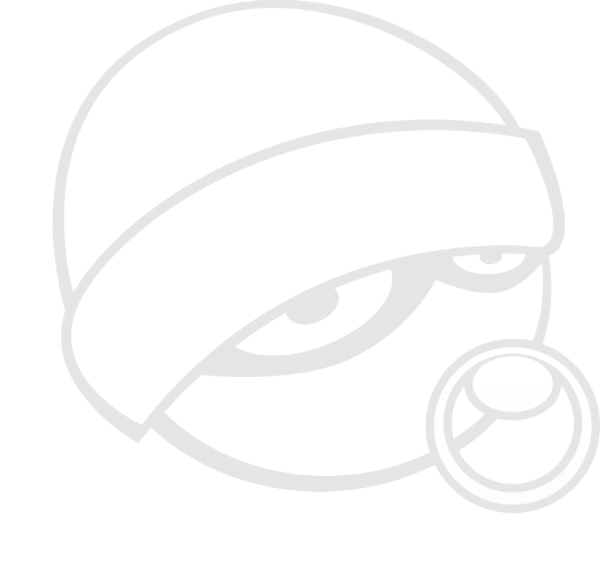
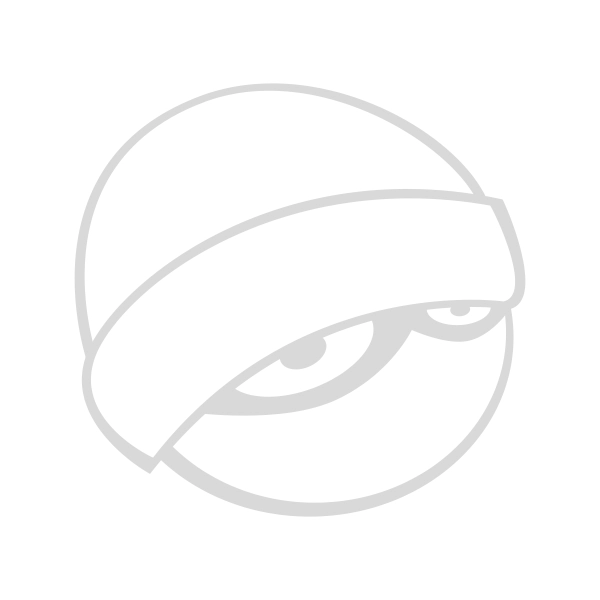
background image tweak, removed tor link

diff --git a/_layouts/default.html b/_layouts/default.html
@@ -26,7 +26,7 @@
                 <img class="badge" src="/assets/img/badges/powered-by-debian.gif" alt="Powered by Debian"/>
             </div>
             <hr>
-            <p id="footer-text">Last updated: {{ site.time | date: '%Y-%m-%d %l:%M %p (UTC%z)' }} &middot; <a href="http://olpx6utj7dnpkjwz724mlnpih5vgulml5cvgb6cxn5yd6aerql7lpjqd.onion/">Tor site</a></p>
+            <p id="footer-text">Last updated: {{ site.time | date: '%Y-%m-%d %l:%M %p (UTC%z)' }}</p>
         </footer>
     </body>
 </html>
